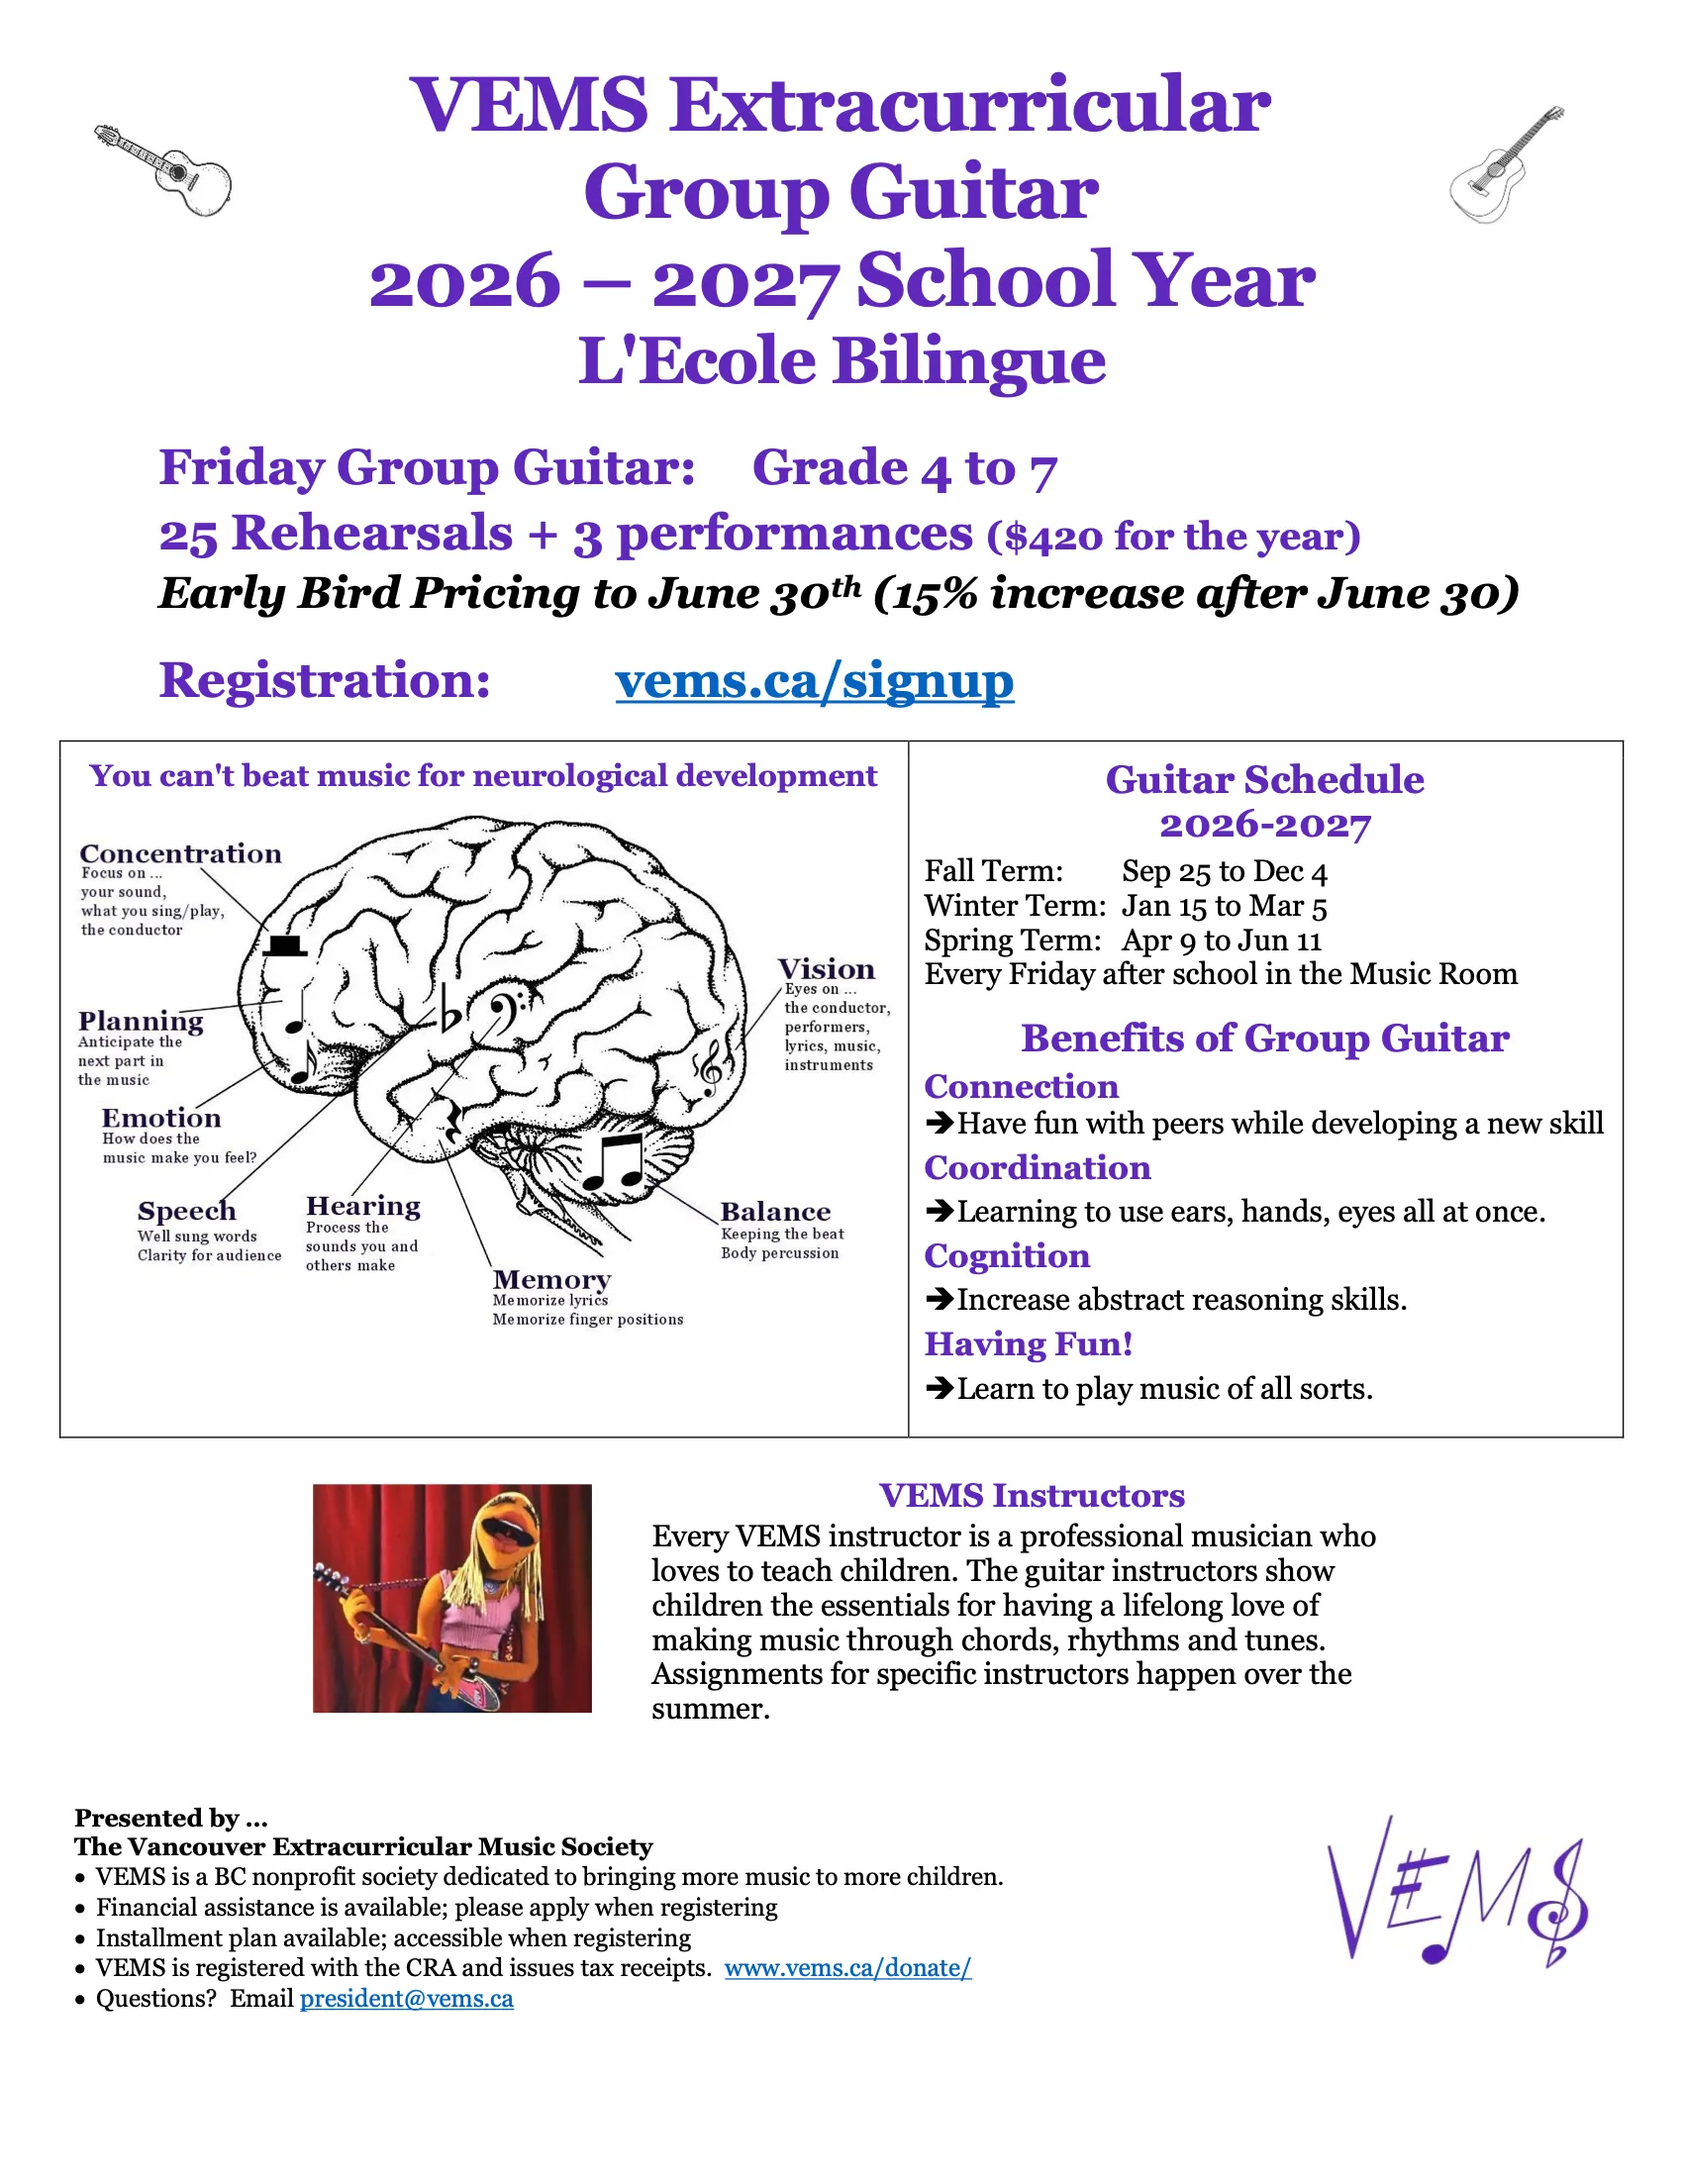
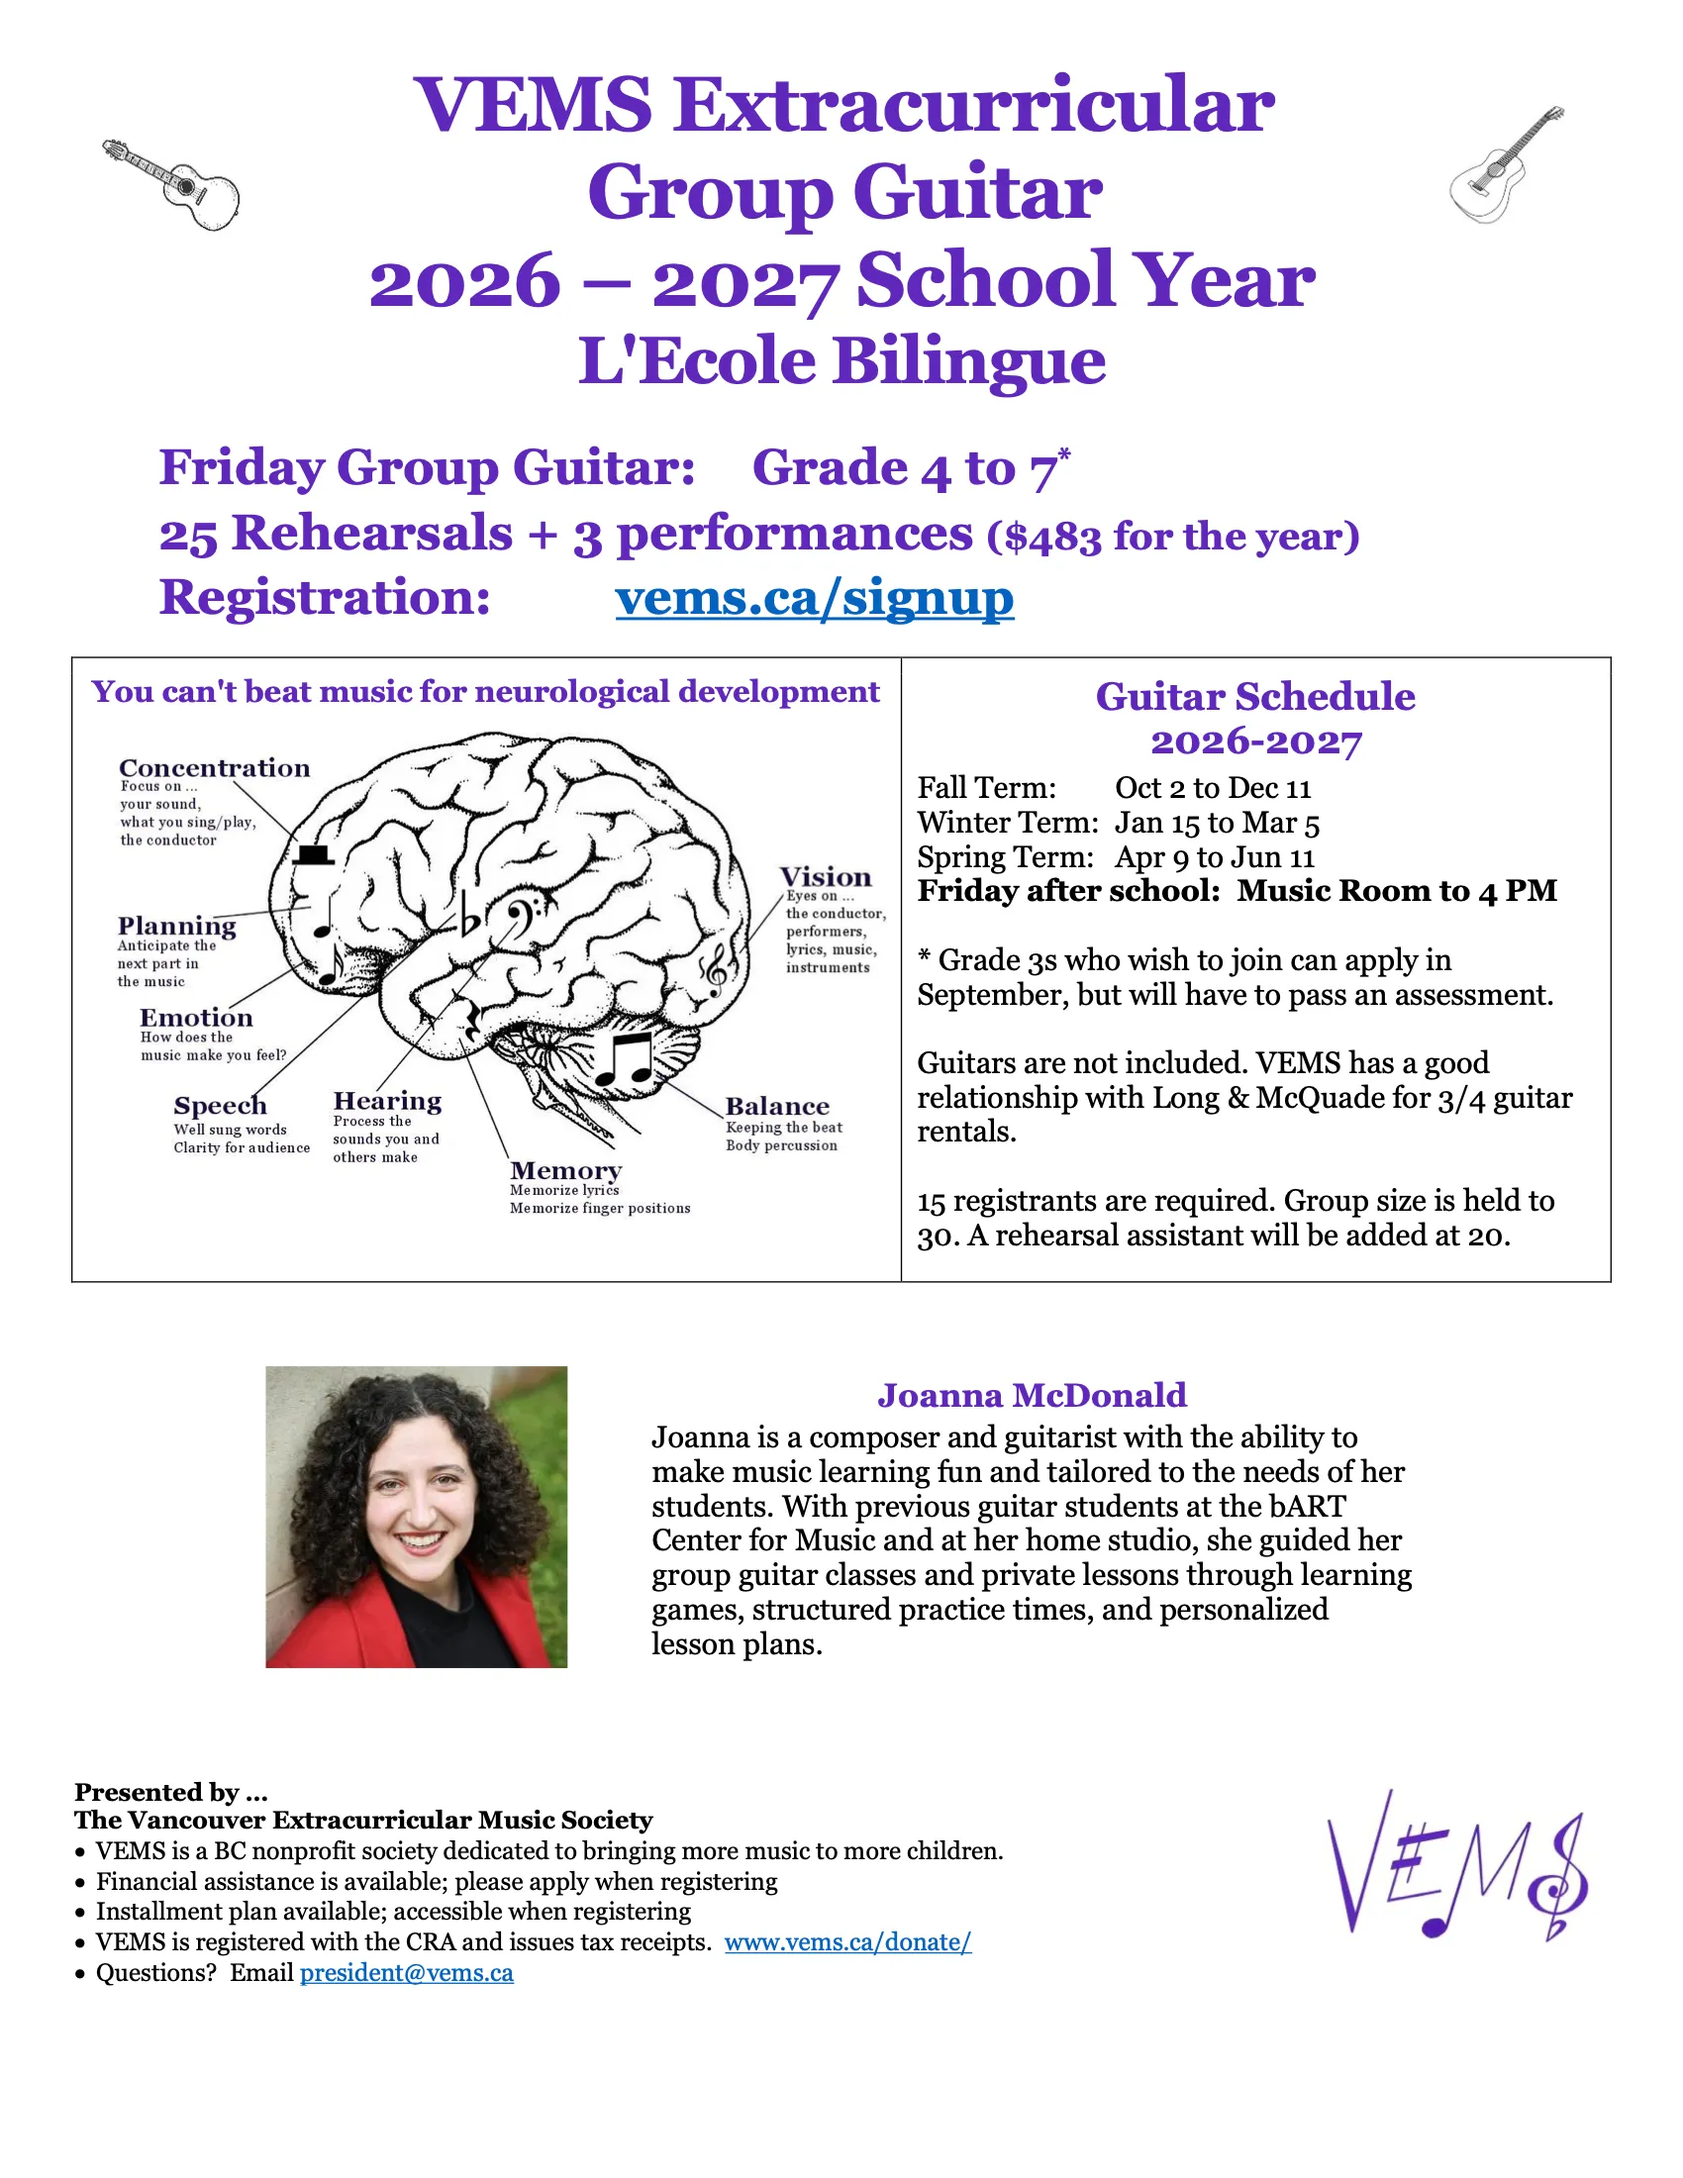
Update VEMS guitar

diff --git a/programs.md b/programs.md
@@ -120,9 +120,9 @@ Please pick up your child _outside_ of the front doors of the school.
 | Program | VEMS Group Guitar 🎸
 | Location | Library
 | Grades | 4 – 7
-| Dates | Sep 25 – Jun 11
-| Time | 3:15 – 4:15 pm
-| Cost | $420 (before June 30) / $483 (after June 30)
+| Dates | Oct 2 – Jun 11
+| Time | 3:00 – 4:00 pm
+| Cost | $483 (full year)
 | Register | [Info and registration](https://vems.ca/signup){:target="_blank"}
 {: .programs-table}
 
